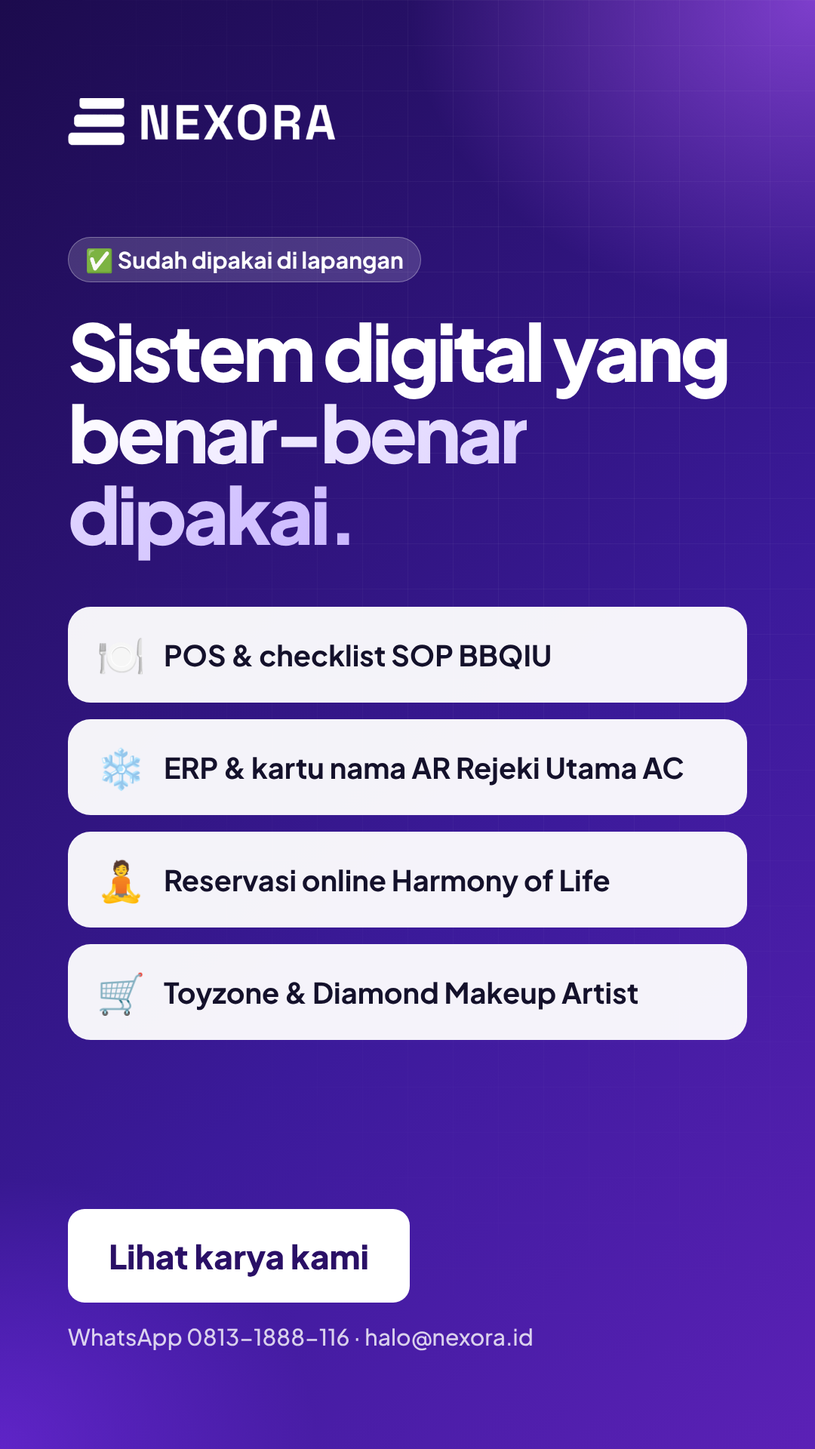
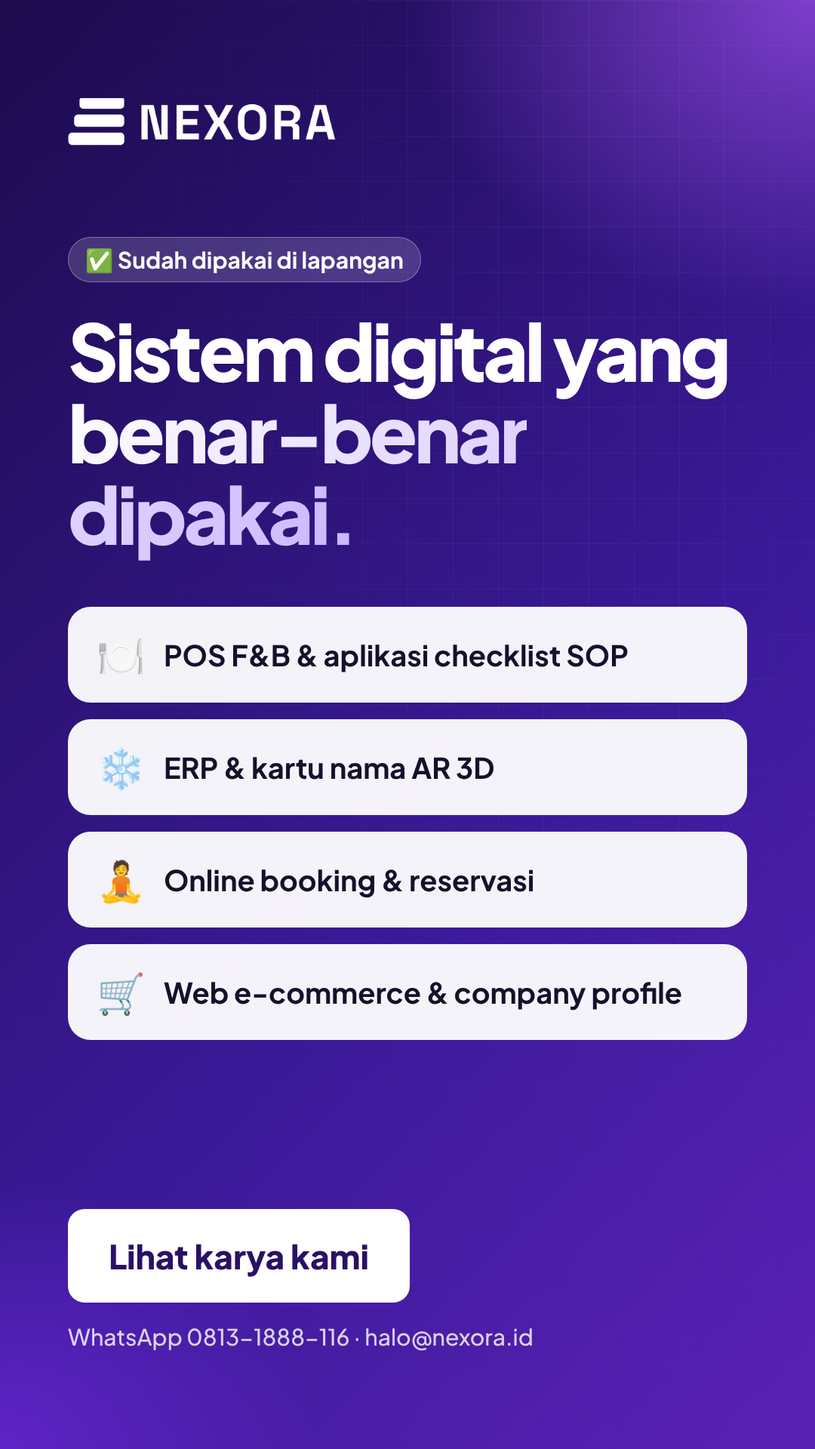
Use generic work names (no client brands); add Virtual Office AI Agent and Jarvis; fix tilt var clash
Claude-Session: https://claude.ai/code/session_012oX1W2JNi9AJUCYWZSvFbn

diff --git a/nexora-website/index.html b/nexora-website/index.html
@@ -174,6 +174,7 @@
   .tb-u{background:var(--p);color:#fff;border-bottom-right-radius:5px;align-self:flex-end}
   .tb-s{align-self:center;background:var(--soft2);color:var(--ink2);font-size:11.5px;font-weight:700;border-radius:99px;padding:4px 11px}
   .tb-ok{background:#ecfdf3;border:1px solid #bbf7d0;color:#166534;font-weight:600}
+  .jv .tb{font-size:11px;padding:7px 10px;max-width:92%}
   .tph-f{font-size:10.5px;color:var(--dim);text-align:center;padding:7px;background:#fff;border-top:1px solid var(--line)}
   @media(max-width:900px){.team{grid-template-columns:1fr;gap:28px;margin-top:56px}.tphone{height:480px}}
 
@@ -217,8 +218,8 @@
   .pc-bot{display:grid;grid-template-columns:1fr 1fr;gap:36px;padding:32px 36px;background:#fff;color:var(--ink)}
   .pc-bot .btn{margin-top:20px}
   .pc.B .pc-sub{opacity:.6}
-  .mk{position:relative;width:100%;display:grid;place-items:center;padding:6px 0 52px;--p:1;
-      transform:perspective(1600px) rotateX(calc((1 - var(--p))*9deg)) translateY(calc((1 - var(--p))*40px)) scale(calc(.93 + var(--p)*.07));transform-origin:50% 100%;will-change:transform}
+  .mk{position:relative;width:100%;display:grid;place-items:center;padding:6px 0 52px;--tl:1;
+      transform:perspective(1600px) rotateX(calc((1 - var(--tl))*9deg)) translateY(calc((1 - var(--tl))*40px)) scale(calc(.93 + var(--tl)*.07));transform-origin:50% 100%;will-change:transform}
   .hs-slide .mk{transform:scale(1.08)}
   .mk .cap{position:absolute;left:4px;bottom:14px;font-size:11px;font-weight:700;color:rgba(20,17,43,.45)}
   .mk.dk .cap,.pc.A .mk .cap{color:rgba(255,255,255,.5)}
@@ -408,7 +409,7 @@
   .act{display:flex;gap:5px}.act span{background:#0aa0d2;color:#fff;border-radius:7px;padding:3px 8px;font-weight:700;font-size:10px}.act span.o{background:#fff;color:#0a86bd;border:1px solid #bae6fd}
   @media(max-width:560px){.erp{grid-template-columns:1fr}.erp .sb,.erp .chat{display:none}}
 
-  /* mock: bbqiu */
+  /* mock: pos */
   .bq{--o:#f97316}
   .bq .ph .scr{background:#1c1410;color:#fff}
   .bq h6{font-size:12.5px;color:#fff;margin-bottom:2px}
@@ -512,7 +513,7 @@
         <p class="lead">Nexora bukan hanya developer aplikasi biasa. Nexora adalah tempat Anda menemukan solusi yang bukan sekadar menyelesaikan masalah, tetapi memberi nilai tambah pada bisnis Anda.</p>
         <div class="row">
           <a class="btn btn-d btn-lg" href="#kontak">Konsultasi Gratis</a>
-          <a class="btn btn-o btn-lg" href="#karya">Lihat 7 Karya</a>
+          <a class="btn btn-o btn-lg" href="#karya">Lihat 9 Karya</a>
         </div>
       </div>
       <div class="hframe" id="hframe" aria-label="Cuplikan karya Nexora">
@@ -523,9 +524,9 @@
   </div>
 
   <div class="trust wrap">
-    <p>Dipakai &amp; dipercaya oleh</p>
+    <p>Dirancang untuk berbagai jenis bisnis</p>
     <div class="mq" aria-hidden="true"><div class="mq-track" id="mq">
-      <span>BBQIU Fusion Grill House</span><span>Harmony of Life</span><span>Rejeki Utama AC</span><span>Toyzone</span><span>Diamond Makeup Artist</span>
+      <span>Restoran &amp; Kafe</span><span>Bengkel &amp; Servis AC</span><span>Studio &amp; Kelas</span><span>Toko Online</span><span>Make-up Artist</span>
     </div></div>
   </div>
 
@@ -579,21 +580,21 @@
       <div class="shead reveal">
         <div class="eyebrow">Karya</div>
         <h2 class="sh">Sistem yang dibangun untuk jalan di lapangan, bukan hanya di presentasi.</h2>
-        <p class="sub">7 proyek yang sudah dikerjakan. Gulir untuk melihat cuplikan dan fiturnya.</p>
+        <p class="sub">9 karya yang sudah dikerjakan. Gulir untuk melihat cuplikan dan fiturnya.</p>
       </div>
       <div class="work">
-        <nav class="sn" id="sn" aria-label="Daftar karya"><a href="#toyzone"><span>01</span> Toyzone</a><a href="#harmony"><span>02</span> Harmony of Life</a><a href="#erp"><span>03</span> ERP Rejeki Utama AC</a><a href="#pos"><span>04</span> POS BBQIU</a><a href="#sop"><span>05</span> Checklist SOP BBQIU</a><a href="#diamond"><span>06</span> Diamond Makeup Artist</a><a href="#ar"><span>07</span> Kartu Nama AR</a></nav>
+        <nav class="sn" id="sn" aria-label="Daftar karya"><a href="#toyzone"><span>01</span> Web E-commerce</a><a href="#harmony"><span>02</span> Online Booking &amp; Reservasi</a><a href="#erp"><span>03</span> ERP</a><a href="#pos"><span>04</span> POS F&amp;B</a><a href="#sop"><span>05</span> Aplikasi Checklist SOP</a><a href="#diamond"><span>06</span> Web Company Profile</a><a href="#ar"><span>07</span> Kartu Nama Augmented Reality 3D</a><a href="#vo"><span>08</span> Virtual Office AI Agent</a><a href="#jarvis"><span>09</span> Assistant Pribadi Jarvis</a></nav>
         <div class="pcs">
-      <article class="pc B" id="toyzone" data-ac="#ea580c" data-fr="#ffd9a8" data-name="Toyzone" data-n="01" style="--bg:#ffd9a8;--fg:var(--ink)">
-        <div class="pc-mock"><i class="blob b1"></i><div class="mk"><div class="fx ss"><div class="fxb"><i></i><i></i><i></i><u>Toyzone</u></div><img src="img/toyzone.webp" alt="Tampilan website Toyzone: banner gratis ongkir, kategori, dan katalog" loading="lazy"></div><span class="cap">Tampilan asli website</span></div></div>
-        <div class="pc-bot"><div><div class="pc-who">01 · E-commerce</div><h3>Toyzone</h3><div class="pc-sub">Website toko mainan online</div><p>Toko online mainan dengan tampilan ceria dan penuh warna. Banner promo yang berganti otomatis, kategori yang mudah dijelajah, hingga keranjang dan pelacakan pesanan, semuanya terasa seperti belanja di toko besar.</p><a class="btn btn-d" href="#kontak">Buat yang serupa</a></div><ul class="ft"><li>Banner promo berganti otomatis (gratis ongkir, produk baru)</li><li>Kategori berwarna: Produk Baru, Stok Terbatas, Terlaris, Eksklusif, Sale</li><li>Tab Terbaru, Minat &amp; Kategori untuk menemukan mainan</li><li>Pencarian, wishlist &amp; keranjang belanja</li><li>Menu Cara Belanja, Pesanan Saya &amp; Bantuan</li><li>Dua bahasa (ID/EN) &amp; tombol WhatsApp langsung</li></ul></div>
+      <article class="pc B" id="toyzone" data-ac="#ea580c" data-fr="#ffd9a8" data-name="Web E-commerce" data-n="01" style="--bg:#ffd9a8;--fg:var(--ink)">
+        <div class="pc-mock"><i class="blob b1"></i><div class="mk"><div class="fx ss"><div class="fxb"><i></i><i></i><i></i><u>Toko Online</u></div><img src="img/toyzone.webp" alt="Tampilan website toko online: banner gratis ongkir, kategori, dan katalog" loading="lazy"></div><span class="cap">Tampilan asli website</span></div></div>
+        <div class="pc-bot"><div><div class="pc-who">01 · E-commerce</div><h3>Web E-commerce</h3><div class="pc-sub">Toko online</div><p>Toko online mainan dengan tampilan ceria dan penuh warna. Banner promo yang berganti otomatis, kategori yang mudah dijelajah, hingga keranjang dan pelacakan pesanan, semuanya terasa seperti belanja di toko besar.</p><a class="btn btn-d" href="#kontak">Buat yang serupa</a></div><ul class="ft"><li>Banner promo berganti otomatis (gratis ongkir, produk baru)</li><li>Kategori berwarna: Produk Baru, Stok Terbatas, Terlaris, Eksklusif, Sale</li><li>Tab Terbaru, Minat &amp; Kategori untuk menemukan mainan</li><li>Pencarian, wishlist &amp; keranjang belanja</li><li>Menu Cara Belanja, Pesanan Saya &amp; Bantuan</li><li>Dua bahasa (ID/EN) &amp; tombol WhatsApp langsung</li></ul></div>
       </article>
-      <article class="pc B" id="harmony" data-ac="#4d7c0f" data-fr="#d6e8ae" data-name="Harmony of Life" data-n="02" style="--bg:#d6e8ae;--fg:var(--ink)">
+      <article class="pc B" id="harmony" data-ac="#4d7c0f" data-fr="#d6e8ae" data-name="Online Booking &amp;amp; Reservasi" data-n="02" style="--bg:#d6e8ae;--fg:var(--ink)">
         <div class="pc-mock"><i class="blob b1"></i><div class="mk">
           <div class="hm">
-            <div class="pics"><img src="img/harmony-1.jpg" alt="Peserta kelas yoga Harmony of Life" loading="lazy"><img src="img/harmony-2.jpg" alt="Kelas yoga di Omah Turi" loading="lazy"></div>
+            <div class="pics"><img src="img/harmony-1.jpg" alt="Peserta kelas yoga Harmony of Life" loading="lazy"><img src="img/harmony-2.jpg" alt="Kelas yoga di studio" loading="lazy"></div>
             <div class="ph hs"><div class="scr">
-              <h6>Omah Turi · Jumat</h6><div class="sm">Pilih sesi untuk mendaftar</div>
+              <h6>Kelas Yoga · Jumat</h6><div class="sm">Pilih sesi untuk mendaftar</div>
               <div class="week"><span>SEN</span><span>SEL</span><span>RAB</span><span>KAM</span><span class="on">JUM</span><span>SAB</span><span>MIN</span></div>
               <div class="sess"><b>Jumat · 19.00</b><small>Tiket Rp 50.000 / orang</small><div class="meter"><i></i></div><small>Sisa 8 dari 20 kursi</small></div>
               <div class="btnm">Daftar sekarang</div>
@@ -602,17 +603,17 @@
           </div>
           <span class="cap">Foto asli kelas · layar pendaftaran ilustrasi</span>
         </div></div>
-        <div class="pc-bot"><div><div class="pc-who">02 · Company profile + reservasi</div><h3>Harmony of Life</h3><div class="pc-sub">Studio yoga di venue Omah Turi</div><p>Satu website untuk memperkenalkan studio sekaligus menerima pendaftaran kelas. Kursi dipesan sendiri oleh peserta, pembayaran dicek dengan kode unik, dan admin tinggal tandai lunas.</p><a class="btn btn-d" href="#kontak">Buat yang serupa</a></div><ul class="ft"><li>Galeri kelas, workshop &amp; event</li><li>Jadwal otomatis 8 minggu ke depan</li><li>Kuota kursi, ditahan sementara lalu lepas otomatis</li><li>Nominal + kode unik, bukti via WhatsApp</li><li>Kelas offline, online live &amp; rekaman</li><li>Panel admin: kuota, lunas, batalkan</li></ul></div>
+        <div class="pc-bot"><div><div class="pc-who">02 · Company profile + reservasi</div><h3>Online Booking &amp; Reservasi</h3><div class="pc-sub">Studio, kelas &amp; layanan berjadwal</div><p>Satu website untuk memperkenalkan studio sekaligus menerima pendaftaran kelas. Kursi dipesan sendiri oleh peserta, pembayaran dicek dengan kode unik, dan admin tinggal tandai lunas.</p><a class="btn btn-d" href="#kontak">Buat yang serupa</a></div><ul class="ft"><li>Galeri kelas, workshop &amp; event</li><li>Jadwal otomatis 8 minggu ke depan</li><li>Kuota kursi, ditahan sementara lalu lepas otomatis</li><li>Nominal + kode unik, bukti via WhatsApp</li><li>Kelas offline, online live &amp; rekaman</li><li>Panel admin: kuota, lunas, batalkan</li></ul></div>
       </article>
-      <article class="pc A" id="erp" data-ac="#0aa0d2" data-fr="#a8def2" data-name="ERP Rejeki Utama AC" data-n="03" style="--bg:#0b3a53;--fg:#fff">
+      <article class="pc A" id="erp" data-ac="#0aa0d2" data-fr="#a8def2" data-name="ERP" data-n="03" style="--bg:#0b3a53;--fg:#fff">
         <i class="blob b1"></i><i class="blob b2"></i>
-        <div class="pc-top"><div><div class="pc-who">03 · ERP + asisten &amp; agen AI</div><h3>ERP Rejeki Utama AC</h3><div class="pc-sub">Penjualan, instalasi &amp; perawatan AC · sejak 1996</div><p><b>Bukan sekadar ERP.</b> Tinggal tanya “piutang minggu ini berapa?”, dan asisten pintar langsung menjawab. Di belakangnya, agen-agen AI ikut bekerja: menjadwalkan teknisi, mengawasi stok, dan mengejar penagihan. Anda fokus bertumbuh, sistem yang mengurus rutinitasnya.</p></div><a class="btn btn-w" href="https://nexora-demo-ru.netlify.app" target="_blank" rel="noopener">Coba demo</a></div>
+        <div class="pc-top"><div><div class="pc-who">03 · ERP + asisten &amp; agen AI</div><h3>ERP</h3><div class="pc-sub">Perusahaan jasa &amp; dagang</div><p><b>Bukan sekadar ERP.</b> Tinggal tanya “piutang minggu ini berapa?”, dan asisten pintar langsung menjawab. Di belakangnya, agen-agen AI ikut bekerja: menjadwalkan teknisi, mengawasi stok, dan mengejar penagihan. Anda fokus bertumbuh, sistem yang mengurus rutinitasnya.</p></div><a class="btn btn-w" href="https://nexora-demo-ru.netlify.app" target="_blank" rel="noopener">Coba demo</a></div>
         <ul class="ft"><li>Asisten pintar: tanya data bisnis seperti ngobrol</li><li>Agen AI bekerja otomatis di setiap alur kerja</li><li>Surat tugas &amp; nota service sampai penagihan</li><li>Sales order, surat jalan &amp; approval owner</li><li>Keuangan, piutang &amp; verifikasi mutasi bank</li><li>Stok real-time &amp; cetak dokumen A5 otomatis</li><li>Akses Owner, Admin &amp; Teknisi</li><li>Satu sistem terintegrasi, tanpa input ganda</li></ul>
         <div class="pc-mock"><div class="mk">
           <div class="fx">
-            <div class="fxb"><i></i><i></i><i></i><u>erp.rejekiutama · dashboard</u></div>
+            <div class="fxb"><i></i><i></i><i></i><u>erp · dashboard</u></div>
             <div class="erp">
-              <div class="sb"><b>RU ERP</b><span class="on">Dashboard</span><span>Surat Tugas</span><span>Penjualan</span><span>Stok</span><span>Keuangan</span><span>Piutang</span></div>
+              <div class="sb"><b>ERP</b><span class="on">Dashboard</span><span>Surat Tugas</span><span>Penjualan</span><span>Stok</span><span>Keuangan</span><span>Piutang</span></div>
               <div class="mn">
                 <div class="kp"><div><b>Rp 86 jt</b><span>Omzet bulan ini</span></div><div><b>42</b><span>Servis berjalan</span></div><div><b>Rp 8,4 jt</b><span>Piutang jatuh tempo</span></div></div>
                 <div class="bars"><i style="height:38%"></i><i style="height:55%"></i><i style="height:46%"></i><i style="height:72%"></i><i style="height:64%"></i><i style="height:88%"></i><i style="height:76%"></i></div>
@@ -623,7 +624,7 @@
                 </div>
               </div>
               <div class="chat">
-                <h6>Asisten RU</h6>
+                <h6>Asisten ERP</h6>
                 <div class="m u">Piutang servis yang jatuh tempo minggu ini?</div>
                 <div class="m b">Ada <strong>4 nota</strong> senilai <strong>Rp 8,4 jt</strong>. Mau saya kirim pengingat penagihan?</div>
                 <div class="act"><span>Kirim</span><span class="o">Lihat daftar</span></div>
@@ -633,14 +634,14 @@
           <span class="cap">Ilustrasi tampilan · data contoh</span>
         </div></div>
       </article>
-      <article class="pc A" id="pos" data-ac="#f97316" data-fr="#f2c9a8" data-name="POS BBQIU" data-n="04" style="--bg:#2b1a12;--fg:#fff">
+      <article class="pc A" id="pos" data-ac="#f97316" data-fr="#f2c9a8" data-name="POS F&amp;amp;B" data-n="04" style="--bg:#2b1a12;--fg:#fff">
         <i class="blob b1"></i><i class="blob b2"></i>
-        <div class="pc-top"><div><div class="pc-who">04 · POS F&amp;B</div><h3>POS BBQIU</h3><div class="pc-sub">BBQIU Fusion Grill House · dipakai di operasional harian</div><p>Tamu scan barcode di meja, memesan sendiri, dan pesanan langsung muncul di layar dapur. Pembayaran QRIS tanpa potongan payment gateway, stok bahan baku terjaga otomatis.</p></div><a class="btn btn-w" href="#kontak">Buat yang serupa</a></div>
+        <div class="pc-top"><div><div class="pc-who">04 · POS F&amp;B</div><h3>POS F&amp;B</h3><div class="pc-sub">Restoran &amp; kafe · dipakai di operasional harian</div><p>Tamu scan barcode di meja, memesan sendiri, dan pesanan langsung muncul di layar dapur. Pembayaran QRIS tanpa potongan payment gateway, stok bahan baku terjaga otomatis.</p></div><a class="btn btn-w" href="#kontak">Buat yang serupa</a></div>
         <ul class="ft"><li>Order meja via scan barcode</li><li>Kitchen Display System real-time</li><li>QRIS tanpa biaya payment gateway</li><li>Kasir digital &amp; rekap penjualan</li><li>Stok FIFO otomatis via scan barcode</li><li>Alert kadaluarsa H-7 ke WhatsApp/Telegram</li></ul>
         <div class="pc-mock"><div class="mk dk bq">
           <div class="duo">
             <div class="ph"><div class="scr">
-              <h6>Meja 07</h6><div class="sm">BBQIU Fusion Grill House</div>
+              <h6>Meja 07</h6><div class="sm">Nama Restoran</div>
               <div class="mi"><i>🥩</i><div><b>Menu A</b><small>Rp 58.000</small></div><u>+</u></div>
               <div class="mi"><i>🍜</i><div><b>Menu B</b><small>Rp 32.000</small></div><u>+</u></div>
               <div class="mi"><i>🥤</i><div><b>Menu C</b><small>Rp 18.000</small></div><u>+</u></div>
@@ -655,7 +656,7 @@
           <span class="cap">Ilustrasi tampilan · nama menu &amp; harga contoh</span>
         </div></div>
       </article>
-      <article class="pc B" id="sop" data-ac="#3b4fb8" data-fr="#c8d1f2" data-name="Checklist SOP BBQIU" data-n="05" style="--bg:#c8d1f2;--fg:var(--ink)">
+      <article class="pc B" id="sop" data-ac="#3b4fb8" data-fr="#c8d1f2" data-name="Aplikasi Checklist SOP" data-n="05" style="--bg:#c8d1f2;--fg:var(--ink)">
         <div class="pc-mock"><i class="blob b1"></i><div class="mk">
           <div class="duo ck">
             <div class="ph"><div class="scr">
@@ -676,17 +677,27 @@
           </div>
           <span class="cap">Ilustrasi tampilan · data contoh</span>
         </div></div>
-        <div class="pc-bot"><div><div class="pc-who">05 · Checklist SOP</div><h3>Checklist SOP BBQIU</h3><div class="pc-sub">BBQIU Fusion Grill House · dipakai di operasional harian</div><p>Setiap tugas harian harus dibuktikan dengan foto ber-watermark lokasi GPS dan waktu. Owner atau SPV meninjau dari dashboard, lalu menyetujui atau meminta diulang.</p><a class="btn btn-d" href="#kontak">Buat yang serupa</a></div><ul class="ft"><li>Foto bukti ber-watermark GPS &amp; waktu</li><li>Preopening, operasional &amp; closing</li><li>Per cabang, area, shift &amp; penanggung jawab</li><li>Setujui atau tolak, minta ulangi</li><li>Dashboard Owner/SPV dengan PIN</li><li>Jejak audit: reviewer tercatat di tiap keputusan</li></ul></div>
+        <div class="pc-bot"><div><div class="pc-who">05 · Checklist SOP</div><h3>Aplikasi Checklist SOP</h3><div class="pc-sub">Restoran &amp; outlet · dipakai di operasional harian</div><p>Setiap tugas harian harus dibuktikan dengan foto ber-watermark lokasi GPS dan waktu. Owner atau SPV meninjau dari dashboard, lalu menyetujui atau meminta diulang.</p><a class="btn btn-d" href="#kontak">Buat yang serupa</a></div><ul class="ft"><li>Foto bukti ber-watermark GPS &amp; waktu</li><li>Preopening, operasional &amp; closing</li><li>Per cabang, area, shift &amp; penanggung jawab</li><li>Setujui atau tolak, minta ulangi</li><li>Dashboard Owner/SPV dengan PIN</li><li>Jejak audit: reviewer tercatat di tiap keputusan</li></ul></div>
       </article>
-      <article class="pc A" id="diamond" data-ac="#e9c987" data-fr="#e6d3ad" data-name="Diamond Makeup Artist" data-n="06" style="--bg:#1f1726;--fg:#fff">
+      <article class="pc A" id="diamond" data-ac="#e9c987" data-fr="#e6d3ad" data-name="Web Company Profile" data-n="06" style="--bg:#1f1726;--fg:#fff">
         <i class="blob b1"></i><i class="blob b2"></i>
-        <div class="pc-top"><div><div class="pc-who">06 · Company profile</div><h3>Diamond Makeup Artist</h3><div class="pc-sub">Website company profile make-up artist</div><p>Website company profile yang elegan untuk MUA di Solo. Foto/video layar penuh, kata-kata yang menenangkan, dan tombol reservasi yang selalu terlihat, sehingga calon pengantin langsung merasakan gaya Diamond.</p></div><a class="btn btn-w" href="#kontak">Buat yang serupa</a></div>
+        <div class="pc-top"><div><div class="pc-who">06 · Company profile</div><h3>Web Company Profile</h3><div class="pc-sub">Bisnis jasa kreatif</div><p>Website company profile yang elegan untuk make-up artist. Foto/video layar penuh, kata-kata yang menenangkan, dan tombol reservasi yang selalu terlihat, sehingga calon pengantin langsung merasakan gaya brand Anda.</p></div><a class="btn btn-w" href="#kontak">Buat yang serupa</a></div>
         <ul class="ft"><li>Hero layar penuh dengan foto/video suasana</li><li>Tombol Reservasi &amp; Portofolio langsung di halaman depan</li><li>Layanan: pengantin, lamaran, wisuda, sweet seventeen, photoshoot</li><li>Bagian Tentang Kami dengan cerita founder &amp; lead artist</li><li>Tipografi serif elegan dengan nuansa hangat</li><li>Menu ringkas ala hamburger yang bersih</li></ul>
-        <div class="pc-mock"><div class="mk dk"><div class="fx ss"><div class="fxb"><i></i><i></i><i></i><u>Diamond Make Up Artist</u></div><img src="img/diamond.webp" alt="Tampilan website Diamond Make Up Artist" loading="lazy"></div><span class="cap">Tampilan asli website</span></div></div>
+        <div class="pc-mock"><div class="mk dk"><div class="fx ss"><div class="fxb"><i></i><i></i><i></i><u>Company Profile</u></div><img src="img/diamond.webp" alt="Tampilan website company profile" loading="lazy"></div><span class="cap">Tampilan asli website</span></div></div>
       </article>
-      <article class="pc B" id="ar" data-ac="#0a86bd" data-fr="#bfe9f7" data-name="Kartu Nama AR" data-n="07" style="--bg:#bfe9f7;--fg:var(--ink)">
-        <div class="pc-mock"><i class="blob b1"></i><div class="mk"><div class="arw ss2"><img src="img/ar-poster.webp" alt="Poster kartu nama Rejeki Utama AC dengan QR untuk membuka AR" loading="lazy"><img src="img/ar-app.webp" alt="Halaman Kartu AR: Mulai AR, Lihat tanpa kamera, Cek kesehatan AC" loading="lazy"></div><span class="cap">Tampilan asli</span></div></div>
-        <div class="pc-bot"><div><div class="pc-who">07 · Augmented reality</div><h3>Kartu Nama AR</h3><div class="pc-sub">Rejeki Utama AC</div><p>Kartu nama dengan QR: arahkan kamera ponsel, lalu halaman AR terbuka tanpa aplikasi. Pelanggan bisa melihat perbandingan AC yang rutin dirawat dan yang tidak, mengecek kesehatan AC, lalu langsung chat WhatsApp.</p><a class="btn btn-d" href="#kontak">Buat yang serupa</a></div><ul class="ft"><li>Kartu cetak dengan QR: “Ingin tahu apa yang sebenarnya terjadi di dalam AC Anda?”</li><li>Tanpa aplikasi, tanpa daftar, gratis</li><li>Tombol Mulai AR yang membuka kamera</li><li>Pilihan Lihat tanpa kamera untuk ponsel tanpa AR</li><li>Cek kesehatan AC Anda dalam 30 detik</li><li>Tombol Chat WhatsApp langsung di halaman</li></ul></div>
+      <article class="pc B" id="ar" data-ac="#0a86bd" data-fr="#bfe9f7" data-name="Kartu Nama Augmented Reality 3D" data-n="07" style="--bg:#bfe9f7;--fg:var(--ink)">
+        <div class="pc-mock"><i class="blob b1"></i><div class="mk"><div class="arw ss2"><img src="img/ar-poster.webp" alt="Poster kartu nama dengan QR untuk membuka AR" loading="lazy"><img src="img/ar-app.webp" alt="Halaman Kartu AR: Mulai AR, Lihat tanpa kamera, Cek kesehatan AC" loading="lazy"></div><span class="cap">Tampilan asli</span></div></div>
+        <div class="pc-bot"><div><div class="pc-who">07 · Augmented reality</div><h3>Kartu Nama Augmented Reality 3D</h3><div class="pc-sub">Bisnis penjualan &amp; servis</div><p>Kartu nama dengan QR: arahkan kamera ponsel, lalu pengalaman Augmented Reality 3D terbuka tanpa aplikasi. Pelanggan bisa melihat perbandingan AC yang rutin dirawat dan yang tidak, mengecek kesehatan AC, lalu langsung chat WhatsApp.</p><a class="btn btn-d" href="#kontak">Buat yang serupa</a></div><ul class="ft"><li>Kartu cetak dengan QR: “Ingin tahu apa yang sebenarnya terjadi di dalam AC Anda?”</li><li>Tanpa aplikasi, tanpa daftar, gratis</li><li>Tombol Mulai AR yang membuka kamera</li><li>Pilihan Lihat tanpa kamera untuk ponsel tanpa AR</li><li>Cek kesehatan AC Anda dalam 30 detik</li><li>Tombol Chat WhatsApp langsung di halaman</li></ul></div>
+      </article>
+      <article class="pc A" id="vo" data-ac="#a78bfa" data-fr="#d8ccf7" data-name="Virtual Office AI Agent" data-n="08" style="--bg:#1c0b4d;--fg:#fff">
+        <i class="blob b1"></i><i class="blob b2"></i>
+        <div class="pc-top"><div><div class="pc-who">08 · AI agent</div><h3>Virtual Office AI Agent</h3><div class="pc-sub">Tim virtual untuk staf manusia Anda</div><p>Kantor virtual berisi agen AI yang bekerja mendampingi staf Anda, siang dan malam. Mereka mendesain dan memposting konten, mengirim laporan pagi dan sore, menghitung bonus dan komisi, bahkan melatih staf lewat chat.</p></div><a class="btn btn-w" href="#kontak">Buat yang serupa</a></div>
+        <ul class="ft"><li>Desainer konten: feed Instagram dibuat &amp; diposting otomatis</li><li>Laporan pagi: omzet, piutang, tagihan supplier &amp; kas</li><li>Laporan sore: kinerja staf, bonus &amp; komisi per karyawan</li><li>SPV pintar: jawab pertanyaan produk &amp; masalah teknis</li><li>Pengingat penagihan ke pelanggan</li><li>Bekerja 24 jam, melapor ke Anda</li></ul>
+        <div class="pc-mock"><div class="mk"><div class="fx"><div class="fxb"><i></i><i></i><i></i><u>virtual office</u></div><div class="vo" style="padding:16px;display:grid;gap:10px;background:#faf9ff"><div class="fr"><i>🎨</i><div><b>Desainer Konten</b><span>Feed promo diposting 02:00 saat Anda tidur</span></div><u>Selesai</u></div><div class="fr"><i>☀</i><div><b>Laporan Pagi</b><span>Omzet, piutang, tagihan supplier &amp; kas terkirim 06:30</span></div><u>Terkirim</u></div><div class="fr"><i>🌇</i><div><b>Laporan Sore</b><span>Kinerja staf, bonus &amp; komisi dihitung</span></div><u class="tm">17:00</u></div><div class="fr"><i>🧠</i><div><b>SPV Pintar</b><span>Menjawab pertanyaan staf lewat chat</span></div><u class="tm">Siaga</u></div></div></div><span class="cap">Ilustrasi tampilan · data contoh</span></div></div>
+      </article>
+      <article class="pc B" id="jarvis" data-ac="#6d28d9" data-fr="#e3d9ff" data-name="Assistant Pribadi Jarvis" data-n="09" style="--bg:#e3d9ff;--fg:var(--ink)">
+        <div class="pc-mock"><i class="blob b1"></i><div class="mk"><div class="duo"><div class="ph"><div class="scr jv" style="background:#faf9ff;display:flex;flex-direction:column;gap:7px;min-height:360px"><div class="tb tb-s">Jarvis · siaga</div><div class="tb tb-u">Jarvis, omzet hari ini berapa?</div><div class="tb tb-b">Rp 12,4 jt, naik 8% dari kemarin. 🎉</div><div class="tb tb-u">Ingatkan saya rapat jam 3 sore</div><div class="tb tb-b tb-ok">✅ Pengingat dibuat untuk 15.00.</div><div class="tb tb-u">Minta tim virtual kirim penagihan</div><div class="tb tb-b tb-ok">✅ 3 pengingat terkirim.</div></div></div></div><span class="cap">Ilustrasi tampilan · data contoh</span></div></div>
+        <div class="pc-bot"><div><div class="pc-who">09 · Asisten AI pribadi</div><h3>Assistant Pribadi Jarvis</h3><div class="pc-sub">Asisten untuk pemilik bisnis</div><p>Asisten pribadi AI untuk pemilik bisnis. Tanya omzet, minta diingatkan jadwal, rangkum laporan, atau perintahkan tim virtual, cukup lewat chat seperti berbincang dengan orang kepercayaan.</p><a class="btn btn-d" href="#kontak">Buat yang serupa</a></div><ul class="ft"><li>Tanya data bisnis seperti ngobrol (omzet, piutang, stok)</li><li>Pengingat jadwal &amp; tugas</li><li>Ringkasan laporan harian</li><li>Memberi perintah ke tim virtual</li><li>Selalu siaga, kapan pun Anda butuh</li><li>Bisa dilatih sesuai gaya &amp; kebutuhan bisnis Anda</li></ul></div>
       </article>
         </div>
       </div>
@@ -701,7 +712,7 @@
         <h2 class="sh">Apa saja yang bisa dikerjakan.</h2>
         <p class="sub">Kebutuhan Anda tidak persis di daftar ini? Tetap ceritakan, alur kerja bisa disesuaikan.</p>
       </div>
-      <div class="bento"><div class="sv sv1 w reveal"><div class="sv-ic">🧾</div><div><h3>Kasir &amp; operasional F&amp;B</h3><p>Kasir digital, QRIS, order meja via barcode, layar dapur, dan kontrol stok bahan baku.</p></div><small>Contoh: <b>POS BBQIU</b></small></div><div class="sv sv2 reveal"><div class="sv-ic">📋</div><div><h3>Manajemen SDM &amp; SOP</h3><p>Checklist harian dengan bukti foto ber-GPS dan pemantauan kepatuhan staf.</p></div><small>Contoh: <b>Checklist SOP BBQIU</b></small></div><div class="sv sv3 reveal"><div class="sv-ic">🛠</div><div><h3>Servis, penjualan &amp; keuangan</h3><p>Surat tugas, nota, stok, piutang, dan cetak dokumen otomatis untuk perusahaan jasa &amp; dagang.</p></div><small>Contoh: <b>ERP Rejeki Utama AC</b></small></div><div class="sv sv4 reveal"><div class="sv-ic">📅</div><div><h3>Pendaftaran &amp; booking online</h3><p>Kuota, jadwal otomatis, pembayaran dengan konfirmasi, dan panel admin untuk pengelola.</p></div><small>Contoh: <b>Harmony of Life</b></small></div><div class="sv sv5 reveal"><div class="sv-ic">🤖</div><div><h3>Asisten pintar &amp; agen AI</h3><p>Bangun tim virtual: desainer konten, laporan pagi dan sore, bonus &amp; komisi staf, dan SPV pintar yang melatih tim lewat chat.</p></div><small>Contoh: <b>Tim virtual di ERP Rejeki Utama AC</b></small></div><div class="sv sv6 w reveal"><div class="sv-ic">🛒</div><div><h3>Website, toko online &amp; AR</h3><p>Company profile, toko online (e-commerce), kartu nama digital, dan presentasi interaktif berbasis AR.</p></div><small>Contoh: <b>Toyzone, Diamond MUA, Kartu Nama AR</b></small></div></div>
+      <div class="bento"><div class="sv sv1 w reveal"><div class="sv-ic">🧾</div><div><h3>Kasir &amp; operasional F&amp;B</h3><p>Kasir digital, QRIS, order meja via barcode, layar dapur, dan kontrol stok bahan baku.</p></div><small>Contoh: <b>POS F&amp;B</b></small></div><div class="sv sv2 reveal"><div class="sv-ic">📋</div><div><h3>Manajemen SDM &amp; SOP</h3><p>Checklist harian dengan bukti foto ber-GPS dan pemantauan kepatuhan staf.</p></div><small>Contoh: <b>Aplikasi Checklist SOP</b></small></div><div class="sv sv3 reveal"><div class="sv-ic">🛠</div><div><h3>Servis, penjualan &amp; keuangan</h3><p>Surat tugas, nota, stok, piutang, dan cetak dokumen otomatis untuk perusahaan jasa &amp; dagang.</p></div><small>Contoh: <b>ERP</b></small></div><div class="sv sv4 reveal"><div class="sv-ic">📅</div><div><h3>Pendaftaran &amp; booking online</h3><p>Kuota, jadwal otomatis, pembayaran dengan konfirmasi, dan panel admin untuk pengelola.</p></div><small>Contoh: <b>Online Booking &amp; Reservasi</b></small></div><div class="sv sv5 reveal"><div class="sv-ic">🤖</div><div><h3>Asisten pintar &amp; agen AI</h3><p>Bangun tim virtual: desainer konten, laporan pagi dan sore, bonus &amp; komisi staf, dan SPV pintar yang melatih tim lewat chat.</p></div><small>Contoh: <b>Virtual Office AI Agent &amp; Jarvis</b></small></div><div class="sv sv6 w reveal"><div class="sv-ic">🛒</div><div><h3>Website, toko online &amp; AR</h3><p>Company profile, toko online (e-commerce), kartu nama digital, dan presentasi interaktif berbasis AR.</p></div><small>Contoh: <b>Web E-commerce, Web Company Profile, Kartu Nama AR 3D</b></small></div></div>
     </div>
   </section>
 
@@ -748,7 +759,7 @@
   <section style="padding-top:20px">
     <div class="wrap">
       <div class="band reveal">
-        <q>Bukan demo. Kasir dan checklist SOP kami dipakai setiap hari di operasional BBQIU Fusion Grill House.</q>
+        <q>Bukan demo. Kasir dan checklist SOP kami dipakai setiap hari di operasional sebuah restoran.</q>
         <div class="row"><small>Diuji langsung di lapangan sebelum dirilis.</small><a class="btn btn-w" href="#karya">Lihat karyanya</a></div>
       </div>
     </div>
@@ -769,8 +780,8 @@
   <div class="wrap">
     <div class="fn"><img src="nexora_logo_navbar.png" alt="Nexora"><nav><a href="#ai">AI Agent</a><a href="#karya">Karya</a><a href="#layanan">Layanan</a><a href="#proses">Cara Kerja</a><a href="#tentang">Tentang Kami</a><a href="#kontak">Kontak</a></nav></div>
     <div class="fcols">
-      <div><h4>Karya</h4><ul><li><a href="#toyzone">Toyzone</a></li><li><a href="#harmony">Harmony of Life</a></li><li><a href="#erp">ERP Rejeki Utama AC</a></li><li><a href="#pos">POS BBQIU</a></li></ul></div>
-      <div><h4>&nbsp;</h4><ul><li><a href="#sop">Checklist SOP BBQIU</a></li><li><a href="#diamond">Diamond Makeup Artist</a></li><li><a href="#ar">Kartu Nama AR</a></li></ul></div>
+      <div><h4>Karya</h4><ul><li><a href="#toyzone">Web E-commerce</a></li><li><a href="#harmony">Online Booking &amp; Reservasi</a></li><li><a href="#erp">ERP</a></li><li><a href="#pos">POS F&amp;B</a></li><li><a href="#sop">Aplikasi Checklist SOP</a></li></ul></div>
+      <div><h4>&nbsp;</h4><ul><li><a href="#diamond">Web Company Profile</a></li><li><a href="#ar">Kartu Nama AR 3D</a></li><li><a href="#vo">Virtual Office AI Agent</a></li><li><a href="#jarvis">Assistant Pribadi Jarvis</a></li></ul></div>
       <div><h4>Kontak</h4><ul><li>08131888116</li><li>halo@nexora.id</li></ul></div>
     </div>
     <div class="fb"><div>© 2026 Nexora. Semua hak dilindungi.</div><div>Engineering the future of business · Dibuat untuk bisnis Indonesia 🇮🇩</div></div>
@@ -814,7 +825,7 @@
   go(0); restart(); if(reduce) pauseBtn.textContent='▶';
 
   // ---- stagger: elemen di dalam cuplikan muncul berurutan ----
-  ['.agents','.chat','.kds','.dash','.tzg','.gal','.dsv','.week','.pics'].forEach(function(sel){
+  ['.agents','.chat','.kds','.dash','.tzg','.gal','.dsv','.week','.pics','.vo','.jv'].forEach(function(sel){
     $$('.pc '+sel).forEach(function(c){c.classList.add('stagger');$$(':scope > *',c).forEach(function(ch,i){ch.style.setProperty('--i',i)})});
   });
   $$('.feed .fr').forEach(function(ch,i){ch.style.setProperty('--i',i)});
@@ -841,7 +852,7 @@
       mks.forEach(function(m){
         var r=m.getBoundingClientRect(); if(r.bottom<-80||r.top>vh+80) return;
         var p=1-Math.min(Math.max((r.top-vh*.32)/(vh*.62),0),1);
-        m.style.setProperty('--p',p.toFixed(3));
+        m.style.setProperty('--tl',p.toFixed(3));
       });
       tick=false;
     }

diff --git a/nexora-website/whatsapp/TEKS-WHATSAPP-BISNIS.md b/nexora-website/whatsapp/TEKS-WHATSAPP-BISNIS.md
@@ -52,7 +52,7 @@ Sambil menunggu, lihat karya kami: **[link website]**
 ## 4. Balasan cepat (ketik `/` lalu pintasan di chat)
 | Pintasan | Isi |
 |---|---|
-| `/karya` | `Berikut karya kami: POS & checklist SOP BBQIU, ERP & kartu nama AR Rejeki Utama AC, reservasi Harmony of Life, Toyzone, dan Diamond Makeup Artist. Lengkapnya di **[link website]** 🙌` |
+| `/karya` | `Berikut karya kami: POS F&B, aplikasi checklist SOP, ERP, online booking & reservasi, web e-commerce, web company profile, kartu nama Augmented Reality 3D, virtual office AI agent, dan asisten pribadi Jarvis. Lengkapnya di **[link website]** 🙌`|
 | `/ai` | `Tim virtual AI kami bisa: 🎨 mendesain & memposting konten Instagram otomatis, ☀ kirim laporan omzet, piutang, tagihan supplier & kas tiap pagi, 🌇 rekap kerja staf + hitung bonus & komisi tiap sore, 🧠 jadi SPV pintar yang menjawab pertanyaan staf lewat chat. Potensi hemat waktu & anggaran hingga 40% (tergantung proses bisnis).` |
 | `/konsul` | `Konsultasi awal GRATIS. Boleh ceritakan jenis bisnis Anda dan alur kerja yang ingin dirapikan? Setelah itu kami usulkan sistem yang paling pas.` |
 | `/harga` | `Biaya tergantung kebutuhan dan ukuran sistemnya, jadi kami pastikan dulu alur bisnis Anda lewat konsultasi gratis. Boleh ceritakan kebutuhannya? 🙏` |
